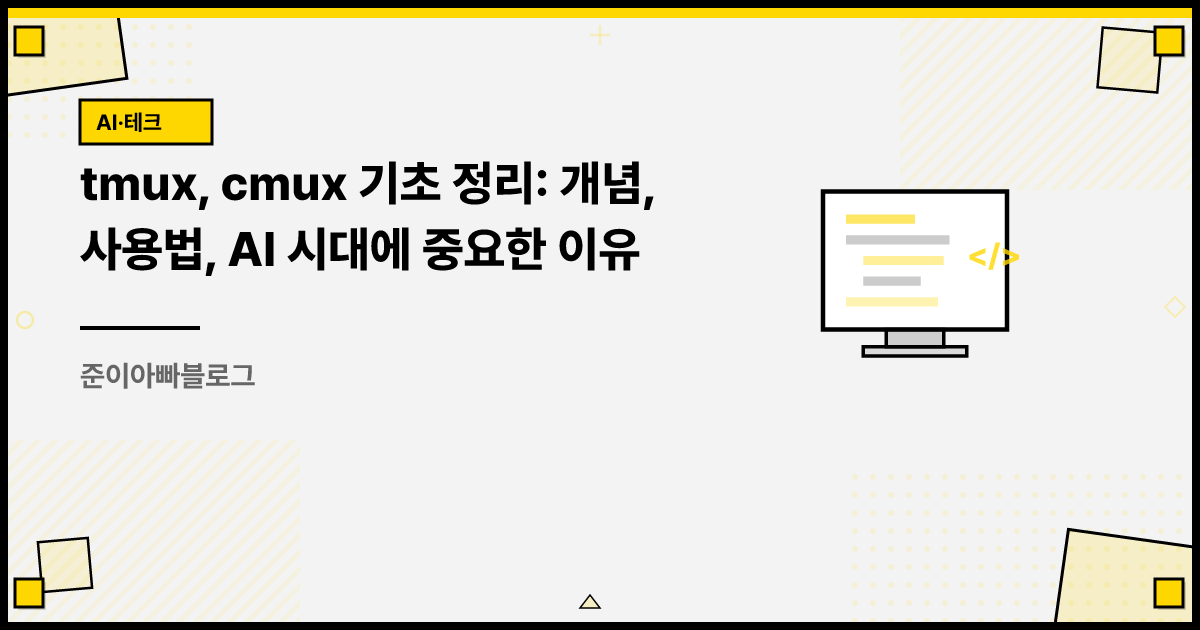
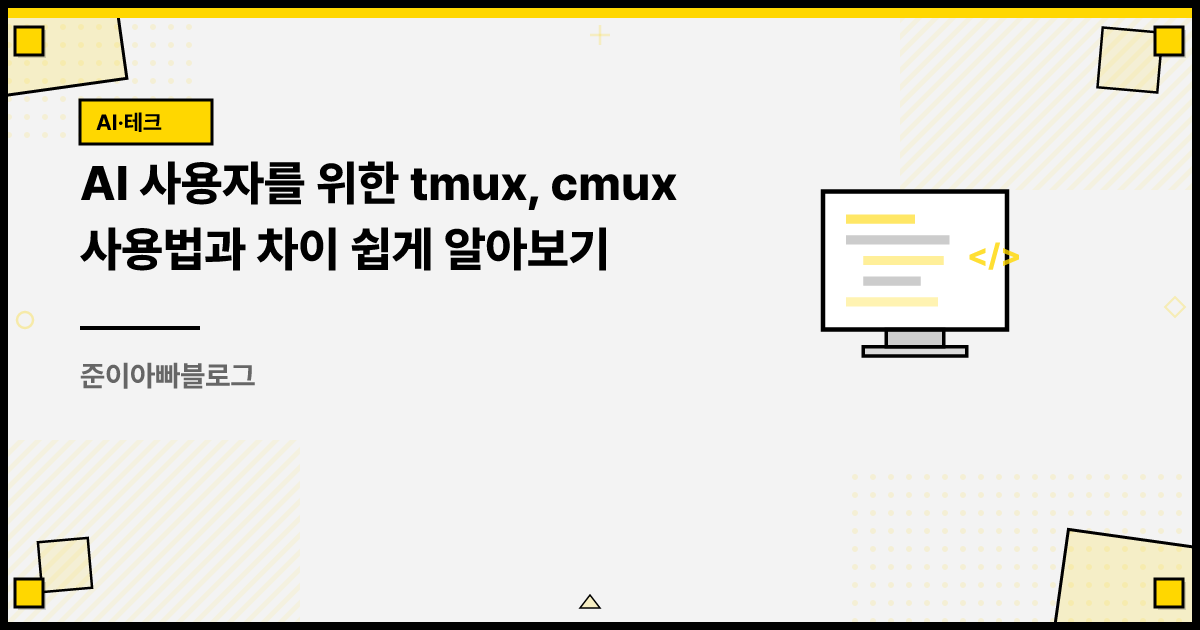
feat(content): tmux/cmux 글 제목·메타 설명을 쉬운 안내 톤으로 변경
Claude-Session: https://claude.ai/code/session_015H5JM2DwkrdVwiifhhUeR1

Changed region(s): [[0.0617, 0.2413, 0.5858, 0.3317], [0.1542, 0.3619, 0.555, 0.4524]]

diff --git a/content/insights/tmux-cmux-basics.md b/content/insights/tmux-cmux-basics.md
@@ -1,9 +1,9 @@
 ---
 slug: tmux-cmux-basics
-title: 'tmux, cmux 기초 정리: 개념, 사용법, AI 시대에 중요한 이유'
+title: 'AI 사용자를 위한 tmux, cmux 사용법과 차이 쉽게 알아보기'
 excerpt: >-
-  터미널 멀티플렉서 tmux의 기본 개념과 사용법, 그리고 AI 코딩 에이전트를 여러 개 돌리는 시대에 이 개념이 다시 중요해진 이유를
-  기초부터 정리합니다. macOS 전용 도구 cmux와의 차이도 함께 다룹니다.
+  AI 코딩 에이전트를 쓰는 분들을 위해 tmux의 기본 개념과 사용법, cmux와의 차이를 기초부터 쉽게 알아봅니다. 터미널 하나로 에이전트
+  여러 개를 관리하는 방법까지 순서대로 다룹니다.
 category: AI_TECH
 tags:
   - AI
@@ -13,12 +13,12 @@ publishedAt: '2026-07-21T00:00:00.000Z'
 highlights:
   - '에이전트 하나로 충분한 동안은 도구를 늘리지 말고, AI가 일하는 동안 기다리는 시간이 아까워지기 시작할 때 tmux부터 익히면 됩니다.'
   - macOS에서 AI 에이전트 여러 개를 동시에 관리한다면 tmux 대신 cmux 같은 전용 앱을 검토해 볼 만합니다.
-metaTitle: 'tmux, cmux 기초 정리: 개념과 사용법, AI 에이전트 시대에 중요한 이유'
+metaTitle: 'AI 사용자를 위한 tmux, cmux 사용법과 차이 쉽게 알아보기'
 metaDescription: >-
-  터미널 멀티플렉서 tmux의 세션, 윈도우, 페인 개념과 기본 명령어, AI 코딩 에이전트 병렬 실행에 쓰이는 이유를 기초부터 정리합니다.
-  macOS 전용 cmux와의 차이 비교 포함.
-ogTitle: 'tmux와 cmux, AI 에이전트 시대의 터미널 사용법 기초'
-ogDescription: 'AI 코딩 에이전트를 여러 개 돌리는 사람들이 tmux를 다시 꺼내 든 이유, 그리고 cmux가 등장한 배경을 기초 개념부터 정리했습니다.'
+  AI 코딩 에이전트를 쓰는 분들을 위해 tmux의 세션, 윈도우, 페인 개념과 기본 명령어를 쉽게 알아봅니다. 에이전트 여러 개를 한
+  화면에서 관리하는 방법과 macOS 전용 cmux와의 차이 비교까지 기초부터 다룹니다.
+ogTitle: 'AI 사용자를 위한 tmux, cmux 사용법과 차이'
+ogDescription: 'AI 에이전트를 여러 개 돌릴 때 왜 tmux가 필요한지, cmux는 무엇이 다른지 기초부터 쉽게 알아봅니다.'
 ogImage: /og/tmux-cmux-basics.png
 quiz:
   - question: tmux에서 실행 중인 프로그램을 종료하지 않고 화면에서만 빠져나와 백그라운드에 계속 돌게 하는 기능은 무엇일까요?
